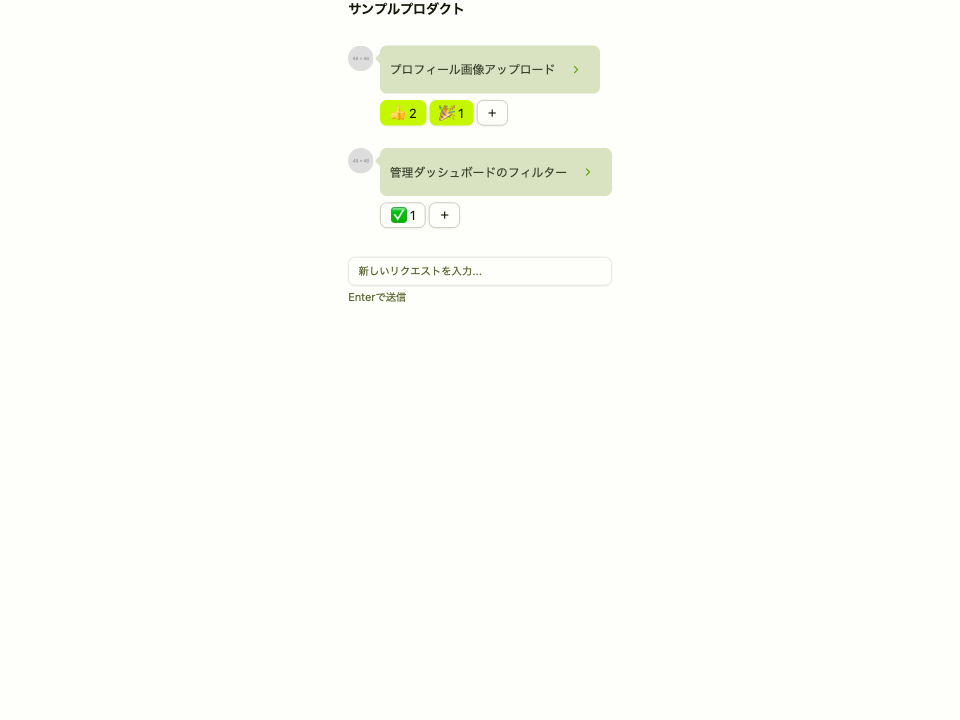
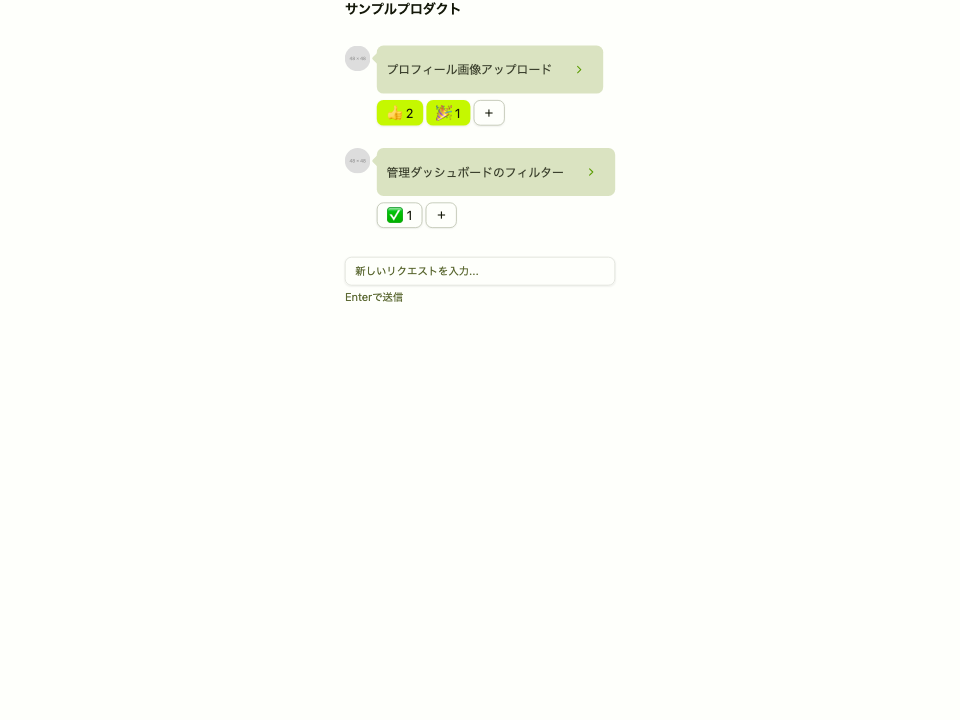
feat: update BubbleText component to wrap children in a div for better layout control

diff --git a/packages/ui/src/components/domain/bubble-text/bubble-text.tsx b/packages/ui/src/components/domain/bubble-text/bubble-text.tsx
@@ -23,11 +23,11 @@ export const BubbleText = ({ children, text }: Props) => {
         translateY="-1/2"
         w="3"
       />
-      <HStack gap="sm" justify="between" self="stretch" wrap="wrap">
+      <HStack justify="between" self="stretch">
         <Text color="subtle" size="md">
           {text}
         </Text>
-        {children}
+        <div className="shrink-0">{children}</div>
       </HStack>
     </Box>
   );
